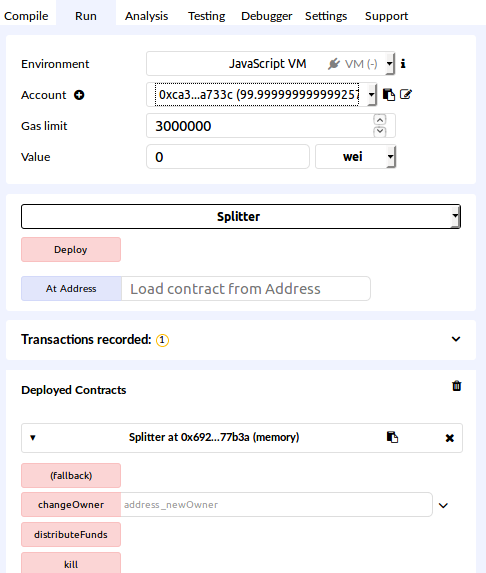
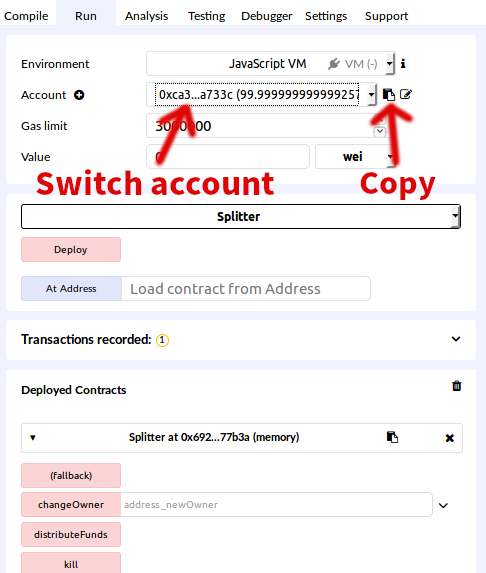
updated challenge with instructions

Changed region(s): [[0.0617, 0.178, 0.5556, 0.356], [0.7407, 0.178, 0.8951, 0.356]]

diff --git a/Solidity Challenges/README.md b/Solidity Challenges/README.md
@@ -13,24 +13,27 @@ Deploy and use Exampletoken.sol from [this repo](https://github.com/jschiarizzi/
 **Writing**
 
 1.  Copy the code from either `Splitter-tool-A.sol` (easy) or `Splitter-tool-B.sol` (harder)
-- Navigate to our browser IDE [Remix](http://remix.ethereum.org)
-- Create a new file named `splitter.sol`
-- Paste in the contract code
-- Complete the missing code in the function for Challenge A or B
-- Compile to ensure there are no errors. _note: you will always get some warnings, please ignore_
+2. Navigate to our browser IDE [Remix](http://remix.ethereum.org)
+3. Create a new file named `splitter.sol`
+4. Paste in the contract code
+5. Complete the missing code in the function for Challenge A or B
+6. Compile to ensure there are no errors. _note: you will always get some warnings, please ignore_
 
 > Need help? Check out the Solidity [cheat sheet](https://github.com/manojpramesh/solidity-cheatsheet) or the docs for [Solidity](https://solidity.readthedocs.io/en/latest/) and [Remix](https://remix.readthedocs.io/en/latest/)
 
 **Testing**
 1.  Switch to the 'Run' tab, and set the Environment to `Javascrtipt VM`
-* Deploy the contract
-* Under deployed contracts, open your contract to view the functions and variables.
-* Copy the addresses from a few other accounts listed
+2. Deploy the contract
+3. Under deployed contracts, open your contract to view the functions and variables.
+4. Copy the addresses from a few other accounts listed
 
 ![alt-text](https://github.com/blockchainbuddha/Intro-to-Blockchain/blob/master/Solidity%20Challenges/assets/example.png)
 
-* Paste addresses into `setRecipients()` and submit. Be sure you use quotes on each individual address, and separate each address with a comma.
-* Run `distributeFunds()`. Don't forget to set a value!
+5. Paste at least 2 different addresses into `setRecipients()`. The function expects `address[]` so use the following formatting:
+`["0xabc1234","0xcdba4321"]`.
+6. Submit, but be sure you are using the account which was used to deploy the contract. The `onlyOwner` modifier prevents other accounts from using this function. [modifiers explained](https://solidity.readthedocs.io/en/develop/miscellaneous.html?highlight=pure#modifiers)
+7. Set value to 1 Ether, and run `distributeFunds()`.
+8. Check balances of the recipient accounts to see if you were successful. If so, great job!
 
 **Solution**
 

diff --git a/README.md b/README.md
@@ -72,6 +72,12 @@ See the [Activities](https://github.com/blockchainbuddha/Intro-to-Blockchain/tre
 - Solidity [cheat sheet](https://github.com/manojpramesh/solidity-cheatsheet)
 - Stuck? See my [Solidity Troubleshooting guide](https://github.com/blockchainbuddha/Solidity-Troubleshooting-Guide)
 
+#### Development Environments and SDK
+
+* ConsenSys [Truffle suite](https://www.truffleframework.com/). Development environment, testing framework and asset pipeline for blockchains using Ethereum
+* JP Morgan Chase [Cakeshop](https://github.com/jpmorganchase/cakeshop). Development environment and SDK for Ethereum-like ledgers.
+*
+
 #### Wallets
 
 - Advanced wallet w/ crypto-collectibles [Vault.io](https://vault.io/) (warning: untested)
